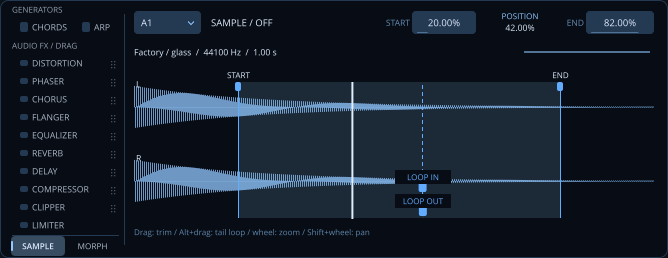
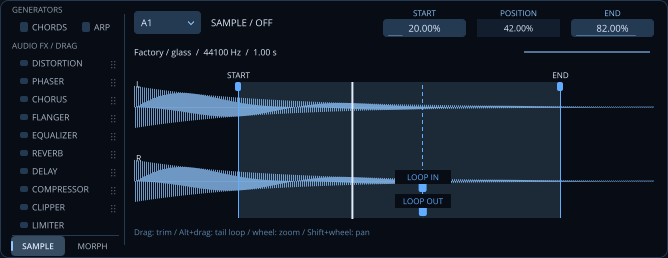
Align Sample labels and values on a shared grid

Changed region(s): [[0.5689, 0.031, 0.7186, 0.155], [0.8383, 0.031, 0.988, 0.155], [0.7485, 0.031, 0.8084, 0.124]]

diff --git a/Source/PluginEditor.cpp b/Source/PluginEditor.cpp
@@ -688,13 +688,7 @@ class LogisthEditor::Console : public Component,
             bool heading = caption.isNotEmpty() && kind != Style::Toggle && kind != Style::Trim;
             label.setVisible(heading);
             auto b = getLocalBounds();
-            if (heading && getComponentID().startsWith("sample.")) {
-                const int width = GlyphArrangement::getStringWidthInt(label.getFont(), caption) + 2;
-                label.setBorderSize({});
-                label.setJustificationType(Justification::centredRight);
-                label.setBounds(b.removeFromLeft(width));
-                b.removeFromLeft(2);
-            } else if (heading)
+            if (heading)
                 label.setBounds(b.removeFromTop(13));
             slider.setVisible(kind == Style::Knob || kind == Style::Trim || kind == Style::Fader ||
                               kind == Style::Number);
@@ -2372,6 +2366,9 @@ class LogisthEditor::Console : public Component,
         layout();
         repaint();
     }
+    static Rectangle<int> sampleFieldBounds(int column) {
+        return {663 + 94 * column, 297, 83, 18};
+    }
     void showSampleTrim(int slot, int mode) {
         // Both editor locations drive the same APVTS parameter. Keep attachments alive
         // across repaints and only rebind when the selected player or engine changes.
@@ -2384,16 +2381,14 @@ class LogisthEditor::Console : public Component,
                 field->setComponentID(i == 0 ? "sample.start" : "sample.end");
                 addChildComponent(*field);
             }
-            const String label = i == 0 ? "START" : "END";
-            field->setName("Sample " + label.toLowerCase());
-            field->configure(i == 0 ? Rectangle<int>{663, 289, 93, 23}
-                                    : Rectangle<int>{844, 289, 90, 23},
-                             Style::Number, label, true);
+            field->setName(i == 0 ? "Sample start" : "Sample end");
+            field->configure(sampleFieldBounds(int(i) * 2), Style::Number, {}, true);
         }
         samplePosition.setFont(font(10));
         samplePosition.setBorderSize({});
         samplePosition.setColour(Label::textColourId, screenText);
-        samplePosition.setBounds(762, 299, 76, 13);
+        samplePosition.setColour(Label::backgroundColourId, screenLine.withAlpha(.4f));
+        samplePosition.setBounds(sampleFieldBounds(1));
         samplePosition.setText(waveView.playbackPositionText(), dontSendNotification);
         samplePosition.setVisible(true);
     }
@@ -4826,8 +4821,12 @@ class LogisthEditor::Console : public Component,
             const Rectangle<int> titleArea =
                 mode >= 2 ? Rectangle<int>(491, 289, 166, 23) : Rectangle<int>(540, 289, 295, 23);
             drawCaption(g, title, titleArea, 11, screenText);
-            if (samplePosition.isVisible())
-                drawCaption(g, "POSITION", {762, 288, 76, 12}, 8, mint, Justification::centred);
+            if (samplePosition.isVisible()) {
+                constexpr std::array<const char *, 3> captions{"START", "POSITION", "END"};
+                for (int i = 0; i < int(captions.size()); ++i)
+                    drawCaption(g, captions[size_t(i)], sampleFieldBounds(i).withY(285).withHeight(12),
+                                8, mint, Justification::centred);
+            }
         } else if (rack == 8) {
             drawCaption(g, "TRIGGER", {414, 309, 140, 18}, 9, mint);
             drawCaption(g, "VOICING", {566, 309, 145, 18}, 9, mint);

diff --git a/tests/InstanceContinuityTests.h b/tests/InstanceContinuityTests.h
@@ -118,7 +118,11 @@ inline void checkTrimControls(const File &report) {
             features0983_test::tick();
             gain_test::require(position->isVisible() && position->getText() == "42.75%" &&
                                    position->getX() >= start.getParentComponent()->getRight() &&
-                                   position->getRight() <= end.getParentComponent()->getX(),
+                                   position->getRight() <= end.getParentComponent()->getX() &&
+                                   position->getY() == start.getParentComponent()->getY() &&
+                                   position->getY() == end.getParentComponent()->getY() &&
+                                   position->getWidth() == start.getParentComponent()->getWidth() &&
+                                   position->getWidth() == end.getParentComponent()->getWidth(),
                                "live playhead readout is between trim controls");
             ++live.revision;
             p->playback[size_t(slot)].write(live);
